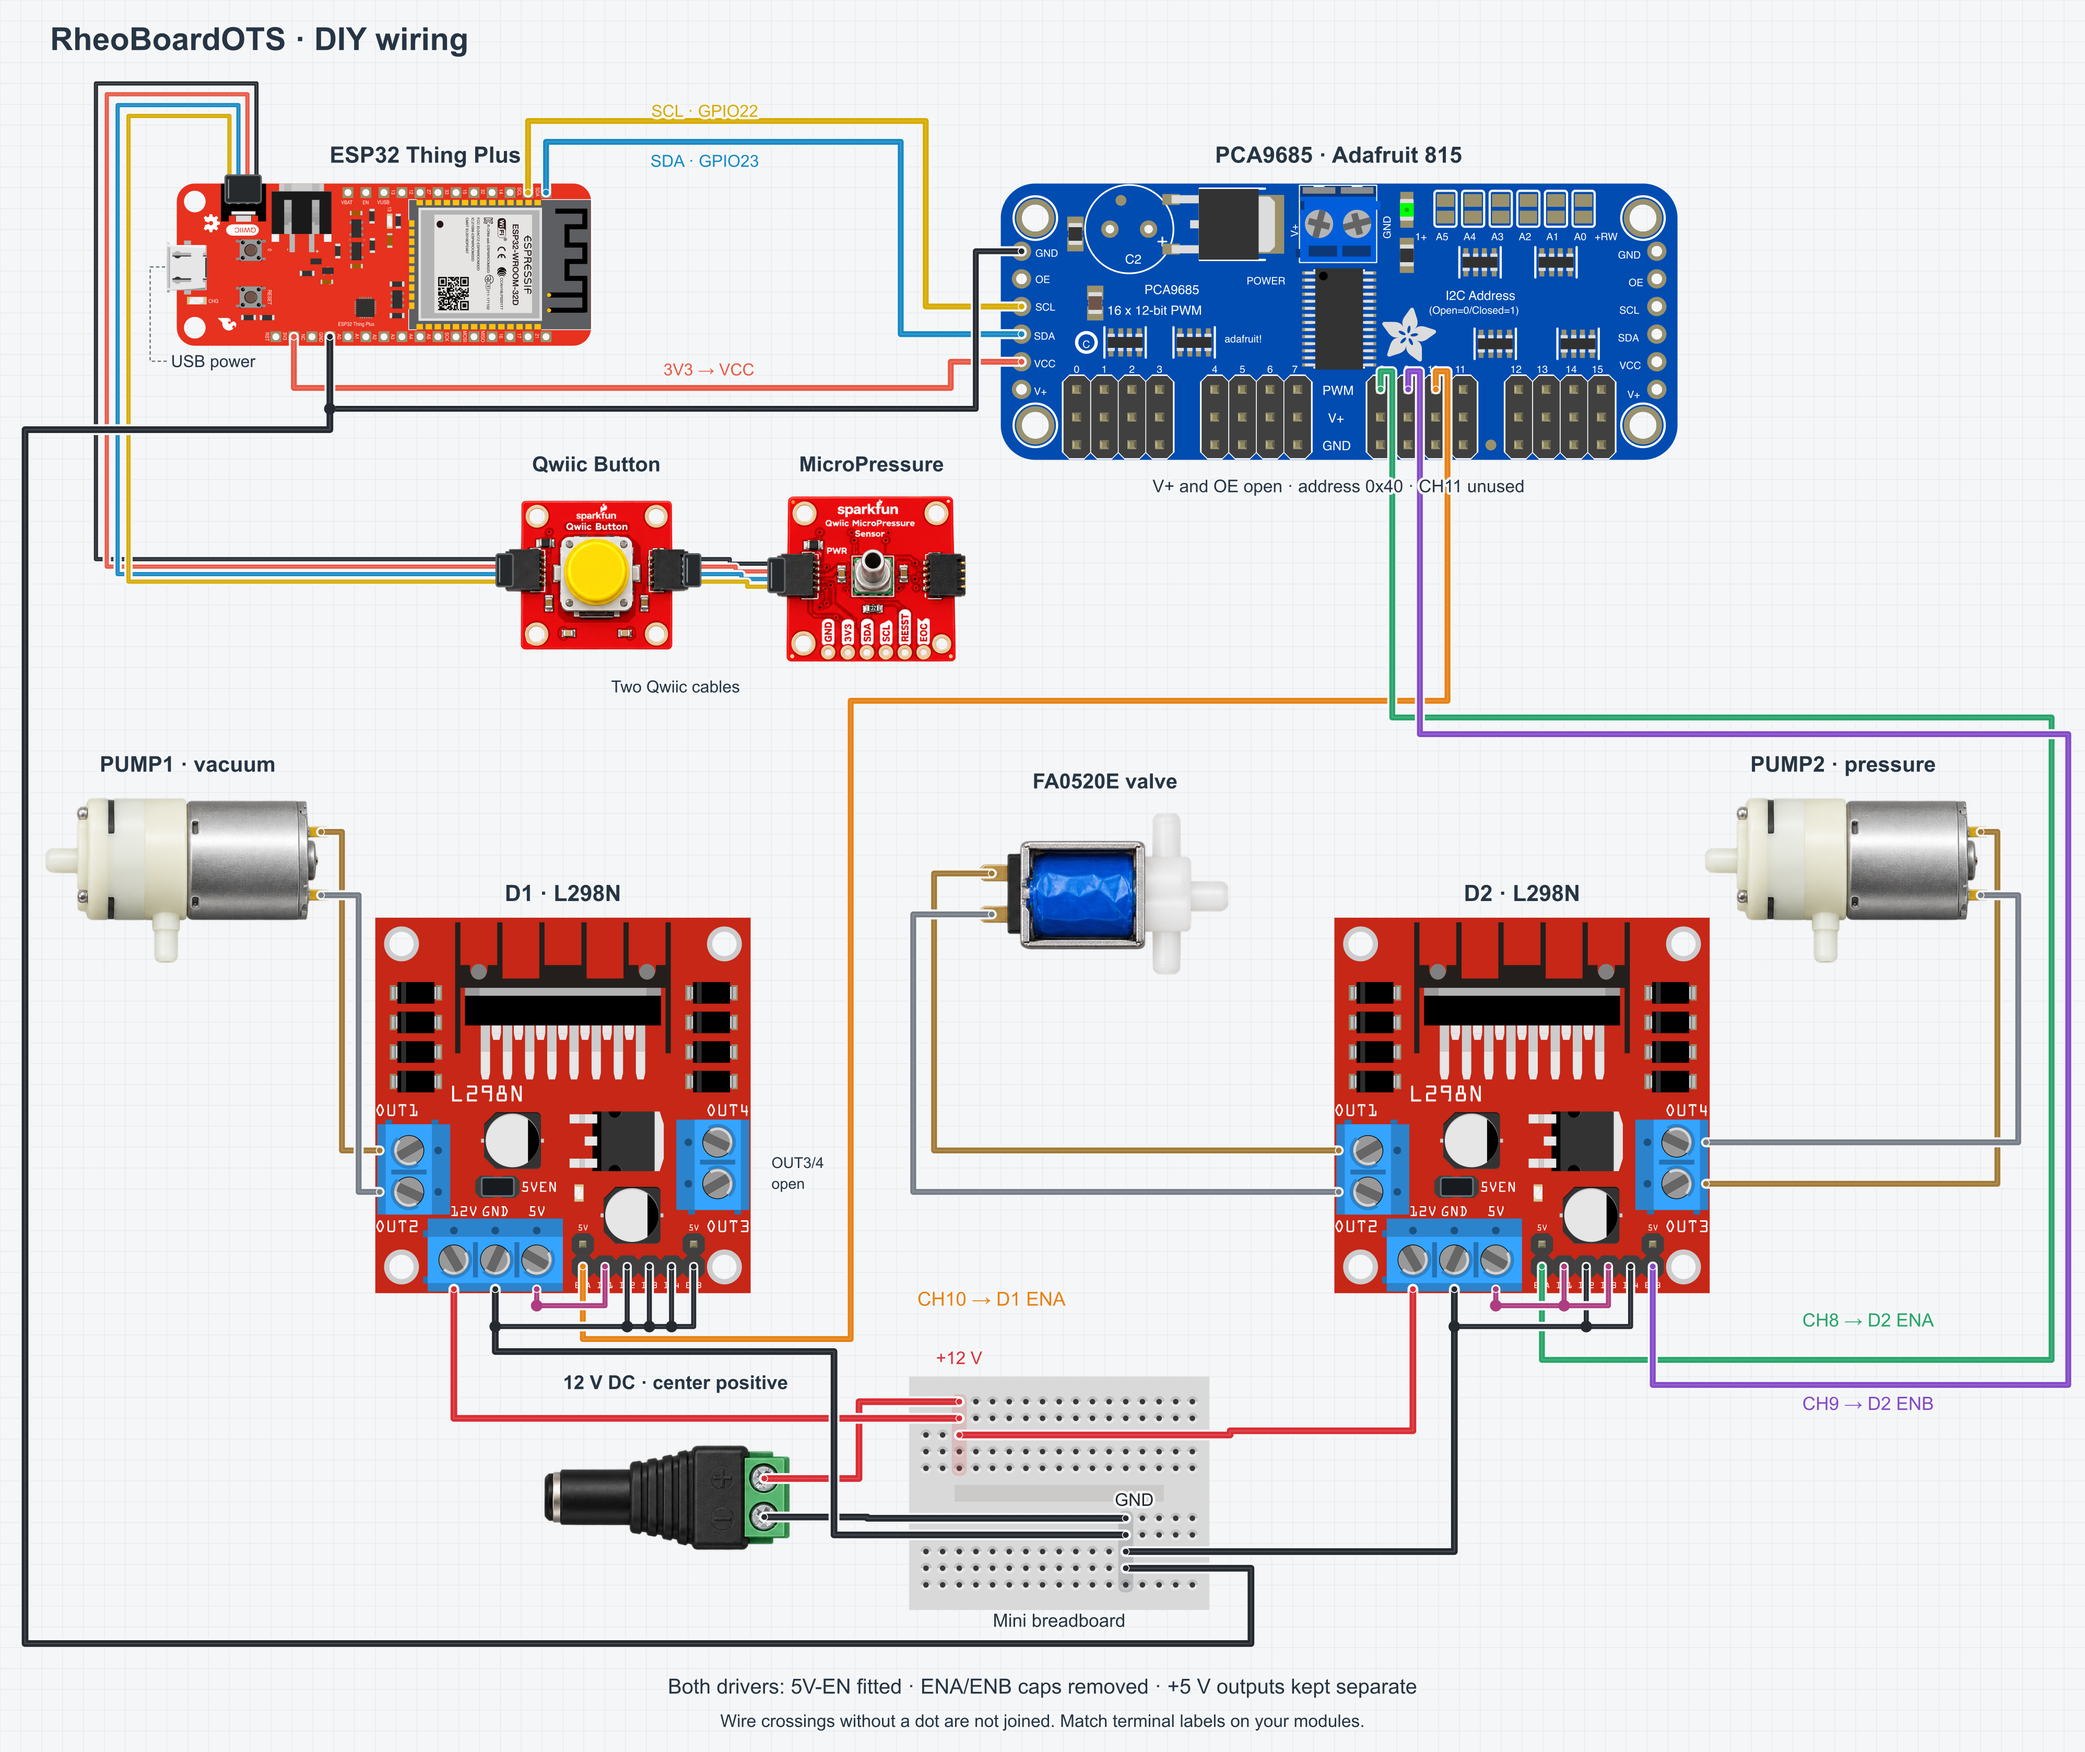
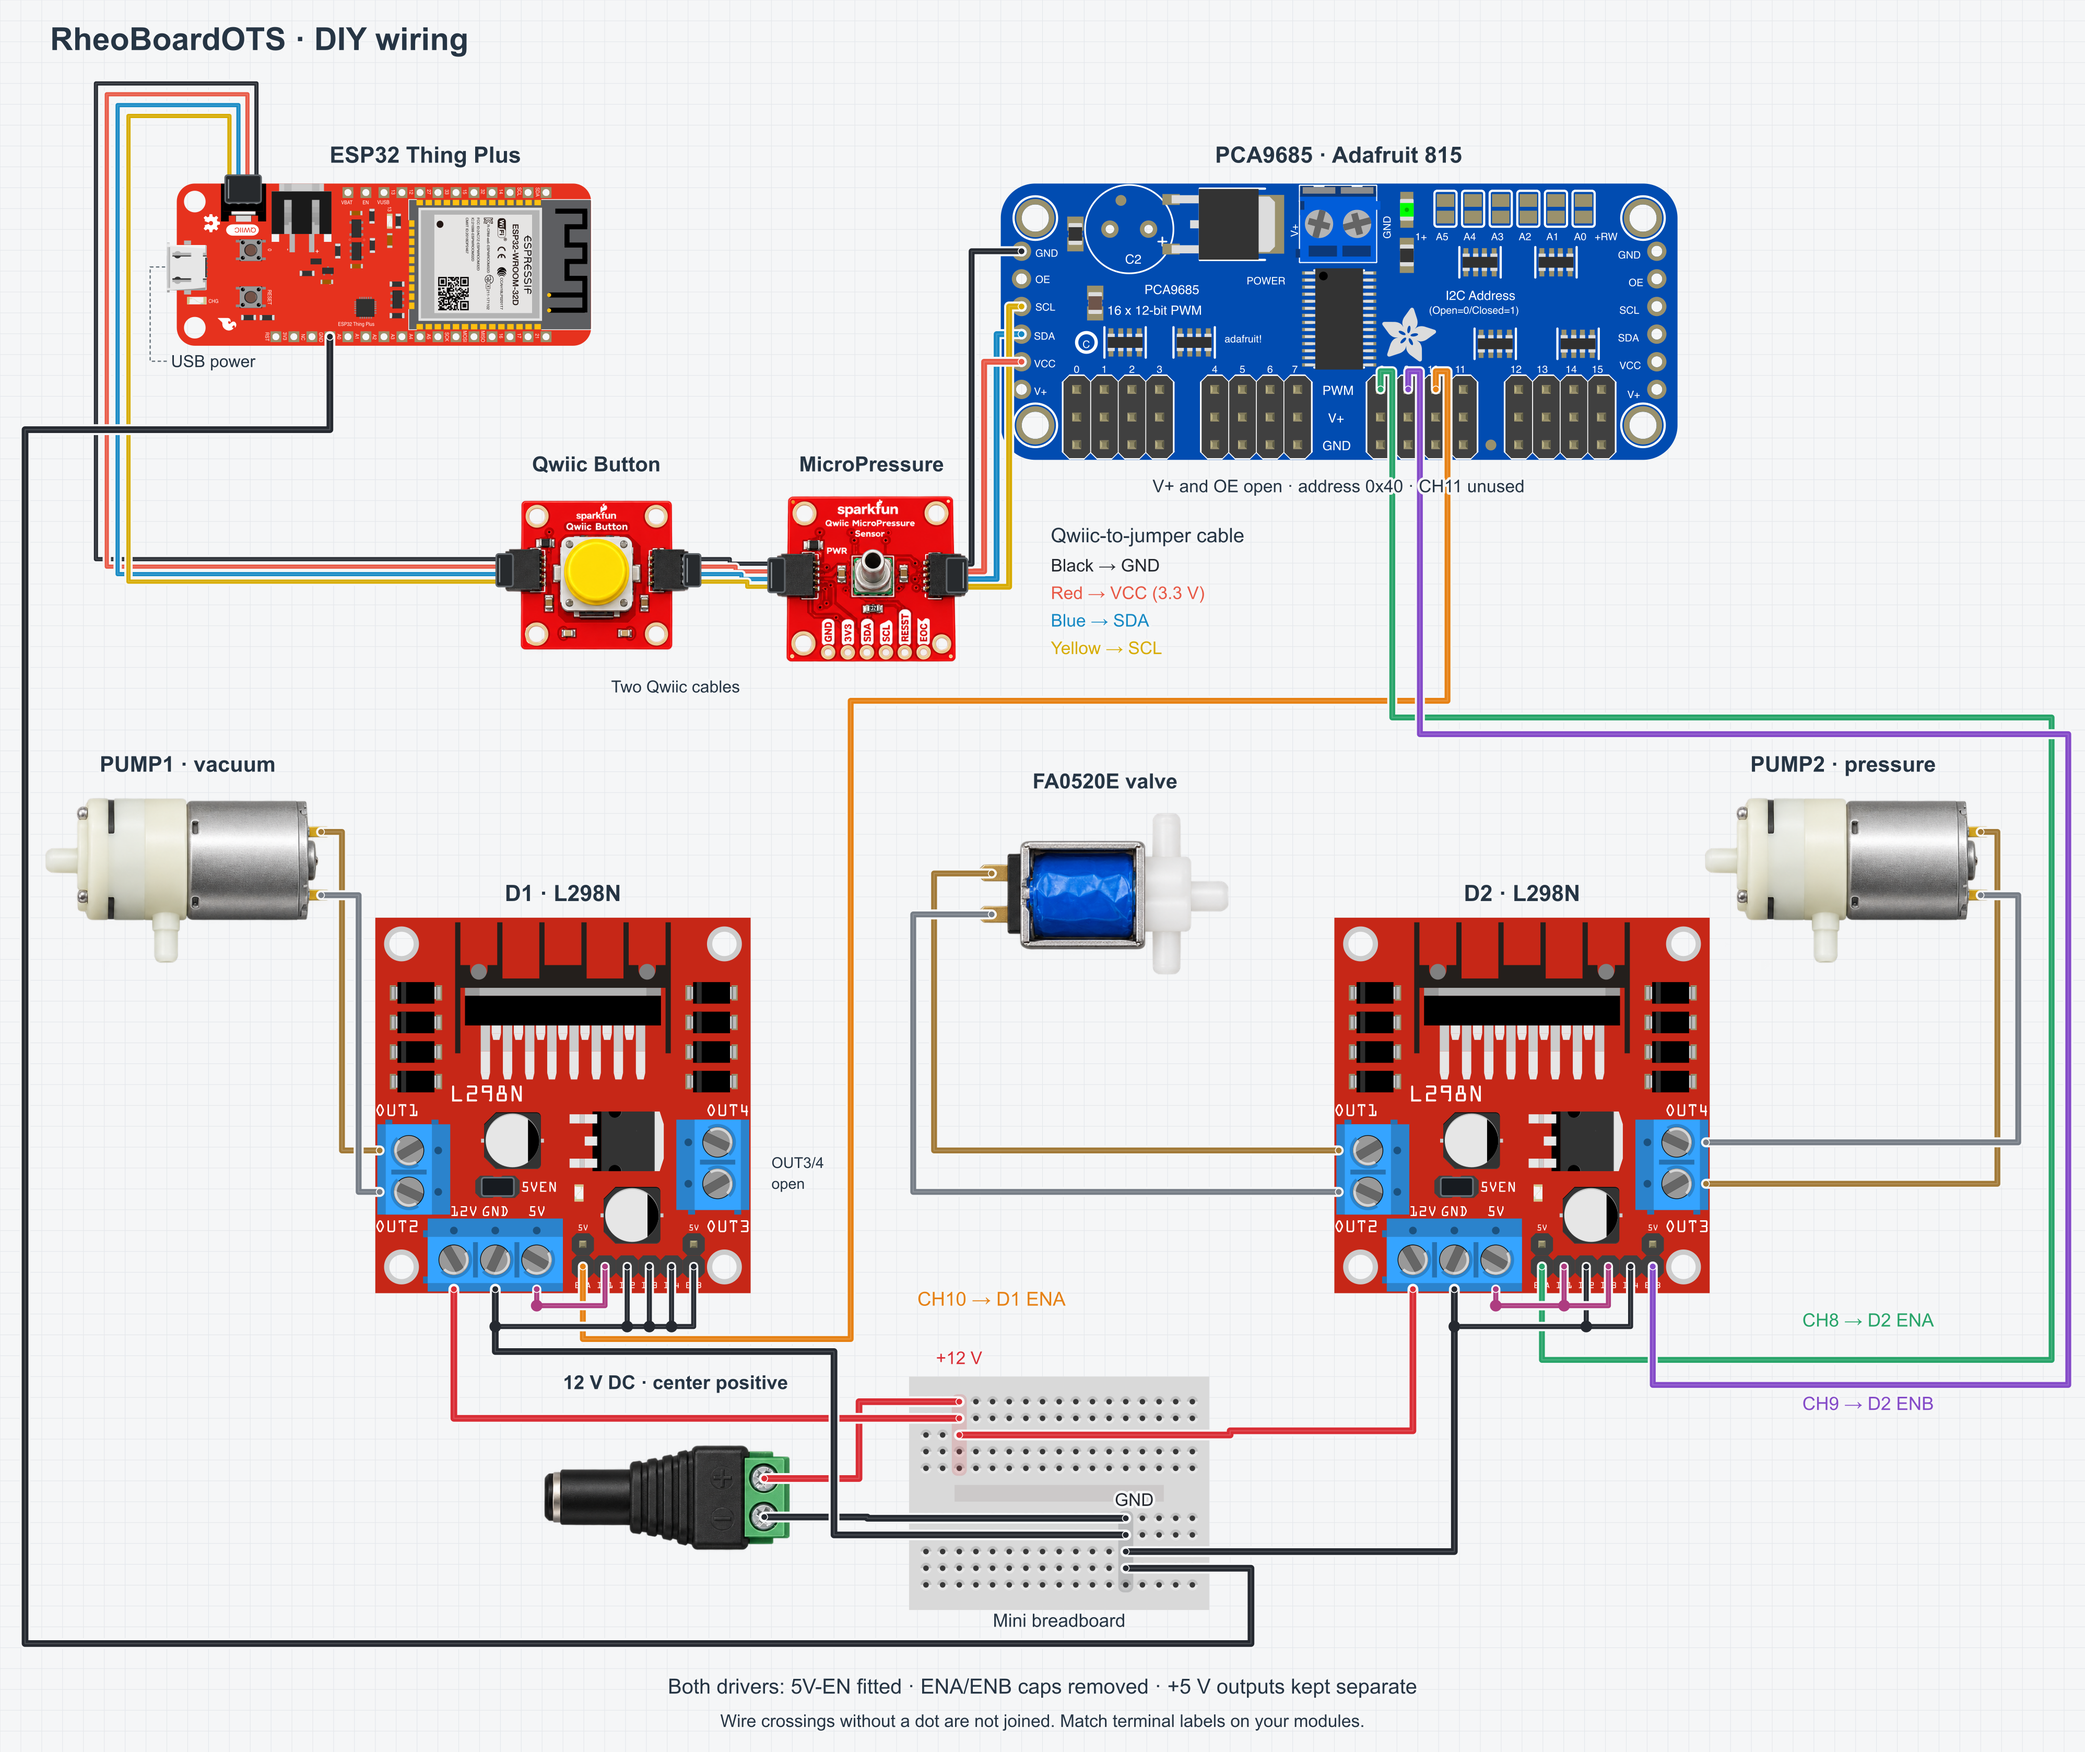
Connect PCA9685 through MicroPressure Qwiic breakout cable

Changed region(s): [[0.1553, 0.124, 0.559, 0.3721], [0.2484, 0.062, 0.4658, 0.124]]

diff --git a/BuildYourOwn/RheoBoardOTS/hardware/electronic-wiring/wiring_diagram.py b/BuildYourOwn/RheoBoardOTS/hardware/electronic-wiring/wiring_diagram.py
@@ -9,13 +9,13 @@ seesaw, and it does not draw the sparse one-sheet schematic.
 SparkFun ESP32 Thing Plus. Wire.begin() uses SDA GPIO 23 and SCL GPIO 22.
 Those header pins are the same I2C peripheral as the Qwiic connector.
 
-Two Qwiic cables: Qwiic Button 0x6F and MicroPressure 0x18. The PCA9685
-is not on that chain. Adafruit product 815 has no Qwiic socket. Four
-header jumpers, address 0x40, no address jumpers:
-    ESP32 GND → PCA9685 GND
-    ESP32 3V3 → PCA9685 VCC   (logic only; never 12 V)
-    ESP32 SDA (GPIO 23) → PCA9685 SDA
-    ESP32 SCL (GPIO 22) → PCA9685 SCL
+Two Qwiic cables join the ESP32, Qwiic Button 0x6F and MicroPressure 0x18.
+A Qwiic-to-jumper cable connects the sensor's spare port to PCA9685 0x40:
+    Qwiic black GND → PCA9685 GND
+    Qwiic red 3.3 V → PCA9685 VCC (logic only; never 12 V)
+    Qwiic blue SDA → PCA9685 SDA (ESP32 GPIO 23 bus)
+    Qwiic yellow SCL → PCA9685 SCL (ESP32 GPIO 22 bus)
+Adafruit product 815 has no Qwiic socket. Leave address jumpers unset.
 V+ and OE stay open. Product 815 has 220 ohm resistors in series with
 its outputs.
 
@@ -159,7 +159,7 @@ def _render(out_path: Path, export_sections: bool = False) -> None:
     ax.text(W / 2, 145.7, "Two pumps  ·  One valve  ·  USB-powered ESP32",
             ha="center", va="center", fontsize=18, color=MUTED, zorder=4)
 
-    # ---- 1. Qwiic chain + PCA9685 header jumpers -----------------------
+    # ---- 1. Qwiic chain + PCA9685 breakout cable -----------------------
     s1x, s1y, s1w, s1h = 2.6, 100.2, 162.8, 42.6
     section(s1x, s1y, s1w, s1h, 1, "Qwiic chain")
 
@@ -185,7 +185,7 @@ def _render(out_path: Path, export_sections: bool = False) -> None:
     card(26.2, row_y, 30.5, row_h, ESP_F, ESP_E, [
         "ESP32 Thing Plus",
         "Qwiic connector",
-        "and header pins",
+        "3.3 V I2C bus",
     ], body=13.0, title=16.2)
     card(72.4, row_y, 32.0, row_h, QW_F, QW_E, [
         "Qwiic Button",
@@ -207,40 +207,35 @@ def _render(out_path: Path, export_sections: bool = False) -> None:
     tag(64.55, row_cy + 1.55, "Qwiic cable", QW, size=12.4)
     tag(112.3, row_cy + 1.55, "Qwiic cable", QW, size=12.4)
 
-    tag(116.0, 121.15,
-        "2 Qwiic cables  ·  SDA / SCL / 3.3 V / GND  ·  button and sensor order can vary",
+    tag(84.0, 121.15,
+        "2 Qwiic cables  +  1 Qwiic-to-jumper cable  ·  same 3.3 V I2C bus",
         INK, size=12.6, weight="regular")
 
-    # Header jumpers leave a spine under the ESP32 and run to the PCA9685.
-    # They are not a third Qwiic cable.
-    esp_cx = 26.2 + 30.5 / 2
-    spine_x = esp_cx
+    # The spare MicroPressure Qwiic port feeds the PCA9685 breakout cable.
+    spine_x = 140.2
     taps = [
-        (115.6, "3V3 → VCC  ·  logic only, never 12 V", VCC),
-        (112.2, "GND", GND),
-        (108.8, "SDA  GPIO 23", TEAL),
-        (105.4, "SCL  GPIO 22", TEAL),
+        (115.6, "Red  3.3 V → VCC", "#c4312e"),
+        (112.2, "Black  GND", GND),
+        (108.8, "Blue  SDA", "#1689c4"),
+        (105.4, "Yellow  SCL", "#987700"),
     ]
-    pca_x, pca_y, pca_w, pca_h = 92.5, 103.0, 67.5, 14.6
+    pca_x, pca_y, pca_w, pca_h = 26.2, 103.0, 67.5, 14.6
     spine = "#64748B"
     wire([(spine_x, row_y), (spine_x, taps[-1][0])], spine, lw=2.6)
     node(spine_x, row_y, spine, ms=10)
-    tag(spine_x - 1.4, 120.7, "ESP32 header", TEAL, size=12.0, ha="right")
-    # Keep this caption left of the spine. The long 3V3 label owns the top wire.
-    tag(7.0, 114.2, "header jumpers", TEAL, size=12.0, ha="left")
-    tag(7.0, 111.6, "not a Qwiic cable", TEAL, size=12.0, ha="left")
     for lane_y, label, color in taps:
-        wire([(spine_x, lane_y), (pca_x, lane_y)], color, lw=3.5)
+        edge_x = pca_x + pca_w
+        wire([(spine_x, lane_y), (edge_x, lane_y)], color, lw=3.5)
         node(spine_x, lane_y, color, ms=9)
-        node(pca_x, lane_y, color, ms=9)
-        tag((spine_x + pca_x) / 2, lane_y + 1.15, label, color, size=11.6)
+        node(edge_x, lane_y, color, ms=9)
+        tag((spine_x + edge_x) / 2, lane_y + 1.15, label, color, size=11.6)
 
     card(pca_x, pca_y, pca_w, pca_h, PCA_F, PCA_E, [
         "PCA9685  ·  product 815",
         "I2C 0x40  ·  no address jumpers",
         "V+ open  ·  OE open",
         "220 ohm resistors in series with outputs",
-        "not on the Qwiic chain",
+        "Qwiic-to-jumper cable from sensor",
     ], body=12.4, title=15.5)
 
     # ---- 2. Control and loads -------------------------------------------

diff --git a/BuildYourOwn/RheoBoardOTS/hardware/electronic-wiring/README.md b/BuildYourOwn/RheoBoardOTS/hardware/electronic-wiring/README.md
@@ -4,9 +4,9 @@ This folder contains the electronic wiring diagrams for RheoBoardOTS - DIY. Step
 
 **Component wiring**
 
-<img src="rheoboardots-fritzing.png" alt="RheoBoardOTS component wiring with the ESP32, PCA9685, two L298N modules, pumps, valve, and power distribution" width="900">
+<img src="rheoboardots-fritzing.png?v=6546dba0b344" alt="RheoBoardOTS component wiring with the ESP32, PCA9685, two L298N modules, pumps, valve, and power distribution" width="900">
 
-[Full-size image](rheoboardots-fritzing.png) · [Editable SVG](rheoboardots-fritzing.svg)
+[Full-size image](https://raw.githubusercontent.com/The-Hybrid-Atelier/RheoBoard/main/BuildYourOwn/RheoBoardOTS/hardware/electronic-wiring/rheoboardots-fritzing.png?v=6546dba0b344) · [Editable SVG](rheoboardots-fritzing.svg)
 
 **Step details**
 
@@ -18,16 +18,16 @@ The continuity example is an optional meter reference; Step 04 uses a plain wiri
 
 **Connection reference**
 
-![Electrical wiring diagram](wiring-diagram.png)
+![Electrical wiring diagram](https://raw.githubusercontent.com/The-Hybrid-Atelier/RheoBoard/main/BuildYourOwn/RheoBoardOTS/hardware/electronic-wiring/wiring-diagram.png?v=6550de6a5e23)
 
 The connection reference is `wiring-diagram.png`. `wiring_diagram.py` generates that three-section figure. `matplotlib` is required. Run `python3 wiring_diagram.py` from this folder. It writes `wiring-diagram.png`. Add `--sections` to also export `wiring-control-boards.png`, `wiring-drivers.png`, and `wiring-power-check.png` as optional technical references for assembly.
 
-The figure shows the ESP32 Thing Plus, the PCA9685 (Adafruit product 815) on four header jumpers, two L298N modules, the pumps, and the valve. Two Qwiic cables join the ESP32, the Qwiic Button, and the MicroPressure sensor. The PCA9685 is not on that chain.
+The figure shows the ESP32 Thing Plus, PCA9685 (Adafruit product 815), two L298N modules, pumps, and valve. Two Qwiic cables connect ESP32 → Qwiic Button → MicroPressure. A Qwiic-to-jumper cable extends the bus from the sensor’s spare Qwiic port to the PCA9685.
 
-PCA9685 VCC comes from ESP32 3V3. GND is on the common ground. SDA is GPIO 23. SCL is GPIO 22. The address is `0x40`. There are no address jumpers. V+ and OE stay open. Product 815 has 220 ohm resistors in series with its outputs.
+Connect the breakout cable’s black wire to GND, red to VCC (3.3 V), blue to SDA, and yellow to SCL. This is the ESP32 I2C bus on SDA GPIO 23 and SCL GPIO 22. The address is `0x40`. There are no address jumpers. V+ and OE stay open. Product 815 has 220 ohm resistors in series with its outputs.
 
 Channel 10 drives the left L298N ENA: PUMP1 on OUT1/OUT2. Channel 9 drives the right L298N ENB: PUMP2 on OUT3/OUT4. Channel 8 drives the right L298N ENA: the valve on OUT1/OUT2. Channel 11 is not wired. A finished REP leaves channel 8 full-on until the sketch releases it.
 
 The channel defines are in [`PneumaticSystem.h`](../../../../code/firmware/RheoBoardOTS/PneumaticSystem.h).
 
-Hookup-wire type and gauge are not stated. The wall-adapter connection to the L298N inputs is in [Connect the power wiring](https://github.com/The-Hybrid-Atelier/RheoBoard/wiki/Assembly-instructions#connect-the-power-wiring), and the pre-power checklist is in [Check wiring](https://github.com/The-Hybrid-Atelier/RheoBoard/wiki/Assembly-instructions#check-wiring-before-power-on). A leak check and a photo of the finished wiring are not in this folder yet.
+The wall-adapter connection to the L298N inputs is in [Connect the power wiring](https://github.com/The-Hybrid-Atelier/RheoBoard/wiki/Assembly-instructions#connect-the-power-wiring), and the pre-power checklist is in [Check wiring](https://github.com/The-Hybrid-Atelier/RheoBoard/wiki/Assembly-instructions#check-wiring-before-power-on).

diff --git a/docs/wiring.md b/docs/wiring.md
@@ -1,3 +1,3 @@
 # Wiring
 
-[Steps 02–04: Connect and check electronics](https://github.com/The-Hybrid-Atelier/RheoBoard/wiki/Assembly-instructions#connect-control-boards) cover electronics and wiring checks. [Step 05: Connect tubing](https://github.com/The-Hybrid-Atelier/RheoBoard/wiki/Assembly-instructions#connect-tubing) covers tubing. The Fritzing-style component picture is the main assembly visual; driver connection tables are expandable references, and Step 04 is a short wiring checklist. The technical diagram is `BuildYourOwn/RheoBoardOTS/hardware/electronic-wiring/wiring-diagram.png`, generated by `wiring_diagram.py` in that folder. The DIY controller is an Adafruit PCA9685, product 815, at I2C `0x40`, on four header jumpers from the ESP32. The port table is in `BuildYourOwn/RheoBoardOTS/hardware/tube-wiring/`.
+[Steps 02–04: Connect and check electronics](https://github.com/The-Hybrid-Atelier/RheoBoard/wiki/Assembly-instructions#connect-control-boards) cover electronics and wiring checks. [Step 05: Connect tubing](https://github.com/The-Hybrid-Atelier/RheoBoard/wiki/Assembly-instructions#connect-tubing) covers tubing. The Fritzing-style component picture is the main assembly visual; driver connection tables are expandable references, and Step 04 is a short wiring checklist. The technical diagram is `BuildYourOwn/RheoBoardOTS/hardware/electronic-wiring/wiring-diagram.png`, generated by `wiring_diagram.py` in that folder. The DIY controller is an Adafruit PCA9685, product 815, at I2C `0x40`, connected to the MicroPressure sensor’s spare Qwiic port through a Qwiic-to-jumper cable. The port table is in `BuildYourOwn/RheoBoardOTS/hardware/tube-wiring/`.

diff --git a/code/firmware/README.md b/code/firmware/README.md
@@ -18,9 +18,9 @@ Firmware is MIT-licensed. The license notice and full text are in [`LICENSE`](..
 |---|---|---|
 | Qwiic Button | `0x6F` | Qwiic cable |
 | MicroPressure (MPRLS) | `0x18` | Qwiic cable |
-| Adafruit PCA9685, product 815 | `0x40` | Four header jumpers. No address jumpers. No Qwiic socket. |
+| Adafruit PCA9685, product 815 | `0x40` | Qwiic-to-jumper cable from the MicroPressure sensor. No address jumpers. |
 
-PCA9685 VCC is ESP32 3V3. V+ and OE stay open. Product 815 has 220 ohm resistors in series with its outputs.
+PCA9685 VCC receives 3.3 V through the sensor’s Qwiic-to-jumper cable; black is GND, red is VCC, blue is SDA, and yellow is SCL. V+ and OE stay open. Product 815 has 220 ohm resistors in series with its outputs.
 
 ## DIY channel map
 
